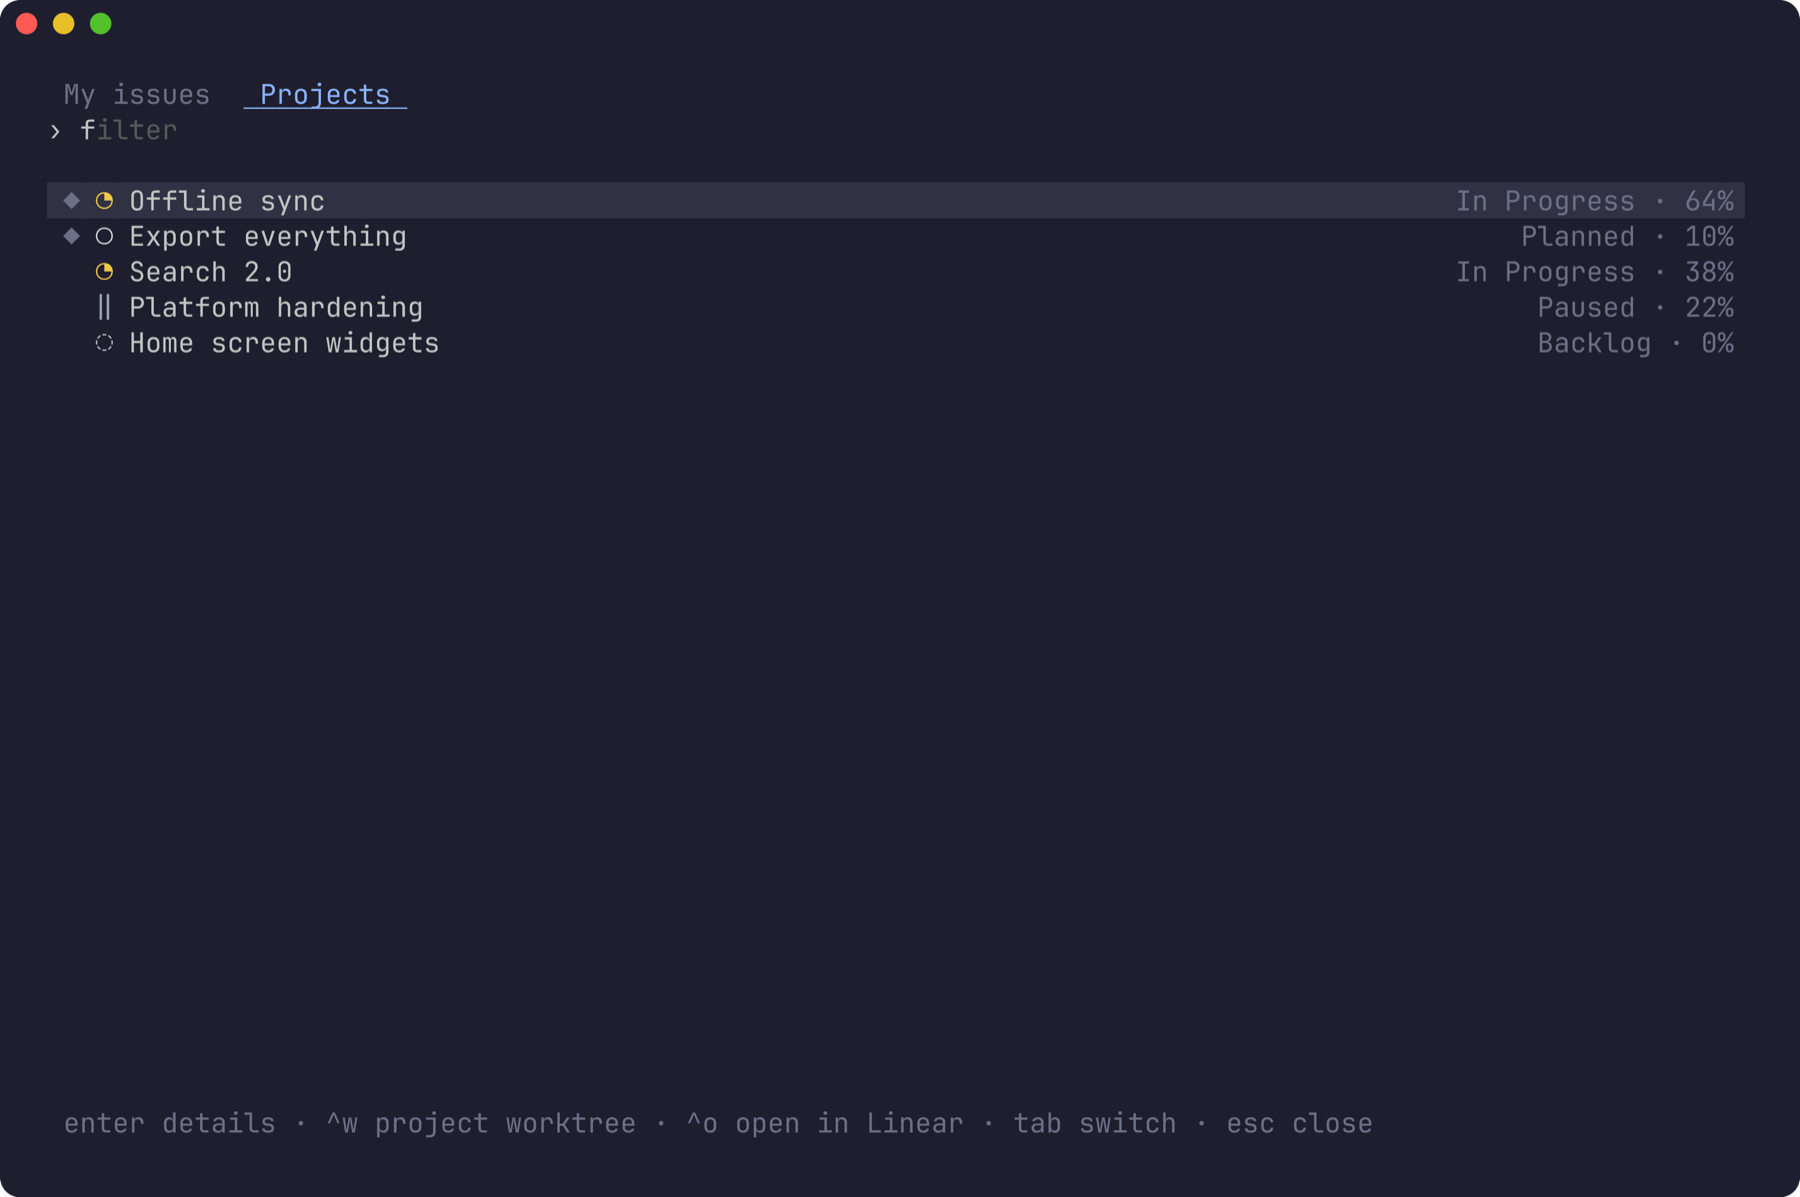
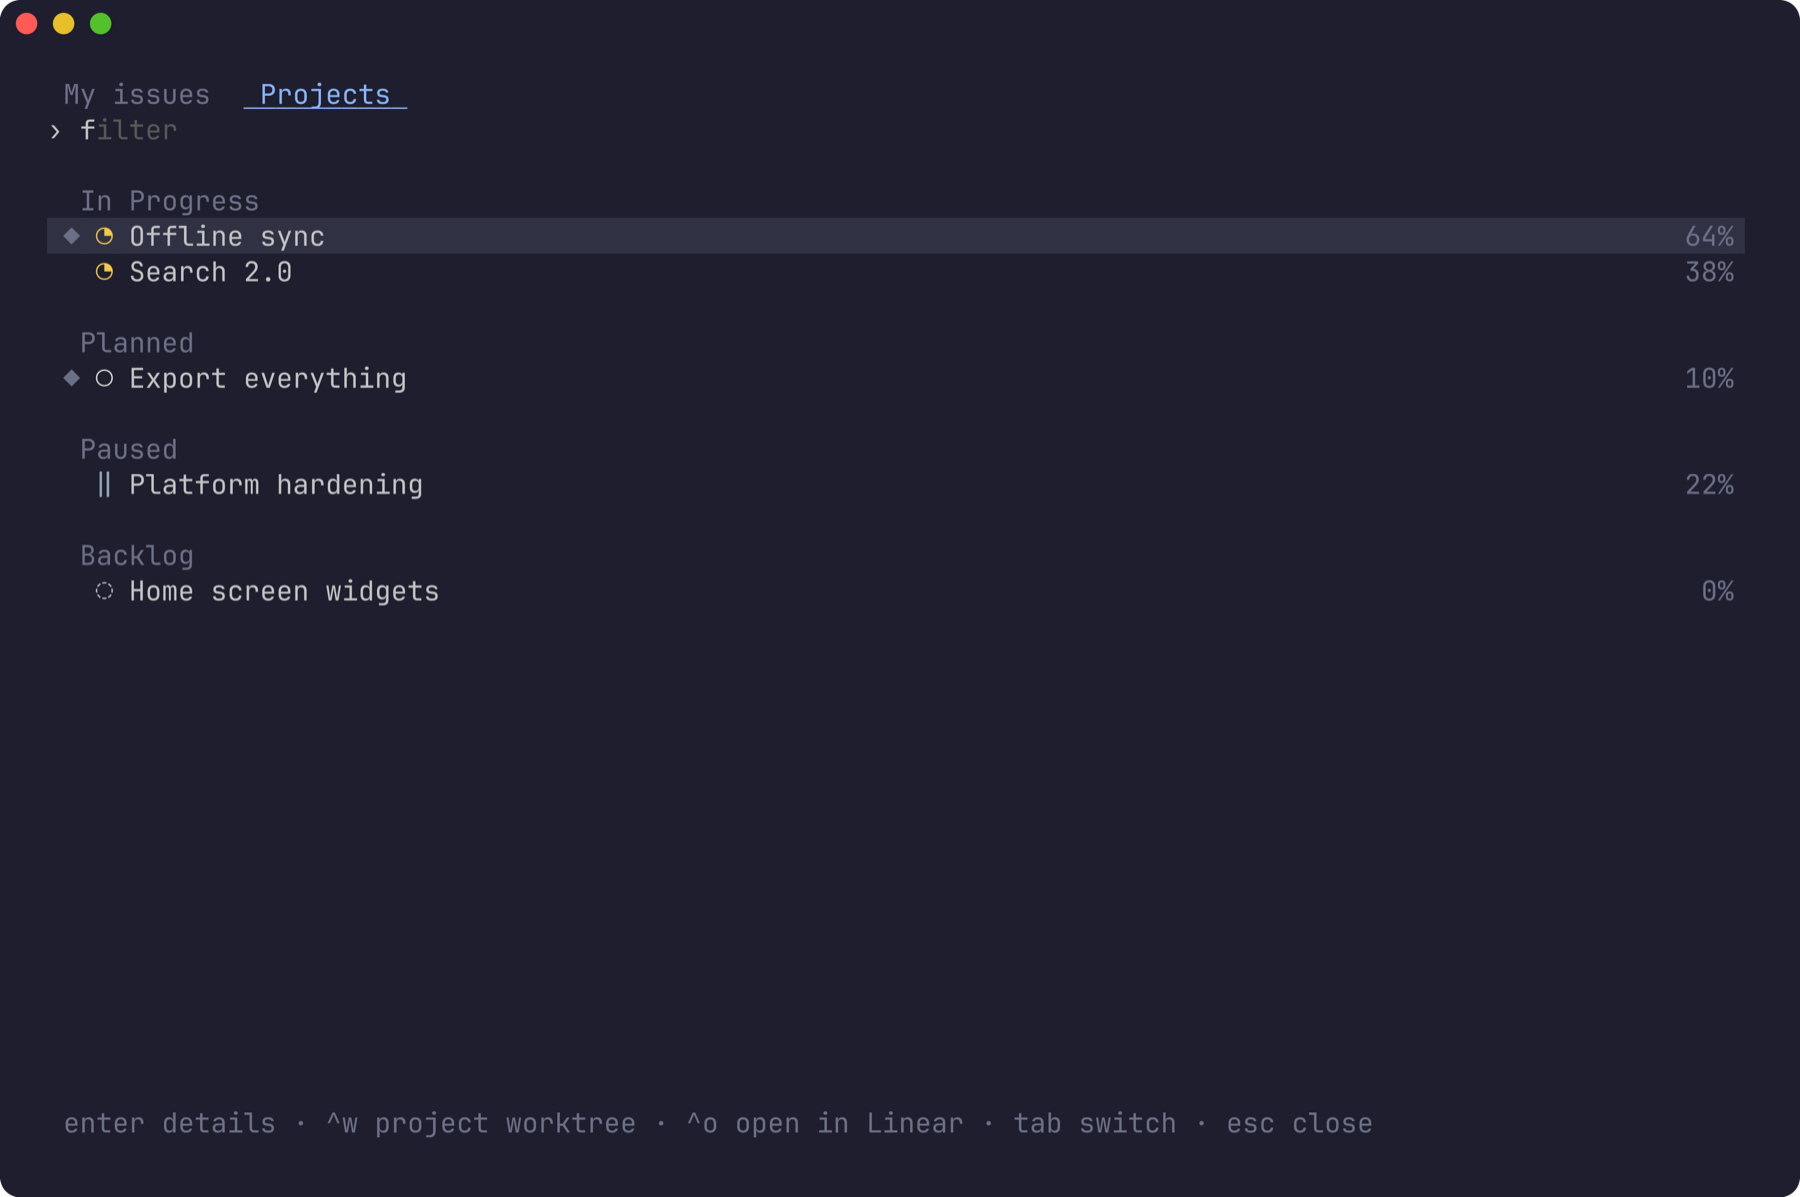
fix(workspaces): review round 3 — ask Linear which token works; group projects by status
Claude-Session: https://claude.ai/code/session_01QqqnGyFA658RDNuiQdbmcA

diff --git a/workspace_test.go b/workspace_test.go
@@ -21,7 +21,8 @@ var (
 )
 
 // fakeStores swaps the keychain for memory, one item per account, and
-// answers whoami from the access token: "acme-…" is Acme, anything else Globex.
+// answers whoami from the access token: "acme-…" is Acme, "dead-…" revoked,
+// anything else Globex.
 func fakeStores(t *testing.T, initial map[string]*tokens) map[string]*tokens {
 	t.Helper()
 	t.Setenv("HERDR_PLUGIN_STATE_DIR", t.TempDir())
@@ -49,8 +50,11 @@ func fakeStores(t *testing.T, initial map[string]*tokens) map[string]*tokens {
 	}
 	removeStore = func(acct string) error { mu.Lock(); defer mu.Unlock(); delete(items, acct); return nil }
 	whoami = func(_ context.Context, _ config, token string) (workspace, error) {
-		if strings.HasPrefix(token, "acme") {
+		switch {
+		case strings.HasPrefix(token, "acme"):
 			return acme, nil
+		case strings.HasPrefix(token, "dead"):
+			return workspace{}, errSignedOut
 		}
 		return globex, nil
 	}
@@ -528,17 +532,34 @@ func TestRepoKeyResolvesSymlinks(t *testing.T) {
 
 // ── review round 2 ────────────────────────────────────────────────────────────
 
-func TestMigrationKeepsTheNewerOldSignIn(t *testing.T) {
+func TestMigrationReplacesTokensLinearRefuses(t *testing.T) {
 	// A move that wrote the copy but couldn't delete the old item; since
 	// then the old item was refreshed, so the copy's refresh token is spent.
-	stale := &tokens{AccessToken: "acme-stale", RefreshToken: "spent", ExpiresAt: time.Now().Add(time.Hour)}
-	fresher := &tokens{AccessToken: "acme-fresh", RefreshToken: "live", ExpiresAt: time.Now().Add(2 * time.Hour)}
-	items := fakeStores(t, map[string]*tokens{legacyAccount: fresher, account(acme.ID): stale})
+	// Its expiry says nothing: it's Linear's answer that counts.
+	spent := &tokens{AccessToken: "dead-a", RefreshToken: "spent", ExpiresAt: time.Now().Add(3 * time.Hour)}
+	items := fakeStores(t, map[string]*tokens{legacyAccount: live(), account(acme.ID): spent})
 	if _, err := loadWorkspaces(context.Background(), config{}); err != nil {
 		t.Fatal(err)
 	}
-	if items[account(acme.ID)].RefreshToken != "live" || items[legacyAccount] != nil {
+	if items[account(acme.ID)].RefreshToken != "r" || items[legacyAccount] != nil {
 		t.Fatalf("stored %v", items)
+	}
+}
+
+func TestMigrationChangesNothingWhenLinearCantSayWhichWorks(t *testing.T) {
+	other := &tokens{AccessToken: "acme-other", RefreshToken: "other", ExpiresAt: time.Now().Add(time.Hour)}
+	items := fakeStores(t, map[string]*tokens{legacyAccount: live(), account(acme.ID): other})
+	whoami = func(_ context.Context, _ config, token string) (workspace, error) {
+		if token == "acme-other" {
+			return workspace{}, errors.New("offline")
+		}
+		return acme, nil
+	}
+	if _, err := loadWorkspaces(context.Background(), config{}); err == nil {
+		t.Fatal("want the error")
+	}
+	if items[legacyAccount] == nil || items[account(acme.ID)].RefreshToken != "other" {
+		t.Fatalf("a pair was dropped on a guess: %v", items)
 	}
 }
 

diff --git a/workspace.go b/workspace.go
@@ -271,7 +271,7 @@ func migrateLegacy(ctx context.Context, cfg config) error {
 		if err != nil {
 			return err
 		}
-		if done, err := moveLegacy(ctx, token, w); done || err != nil {
+		if done, err := moveLegacy(ctx, cfg, token, w); done || err != nil {
 			return err
 		}
 	}
@@ -283,12 +283,13 @@ func migrateLegacy(ctx context.Context, cfg config) error {
 // process refreshed them, or an old version signed in again), it says not
 // done, so they're identified again.
 //
-// When w's account already has tokens (a sign-in since the upgrade, or a
-// move that stopped short of deleting the old item), the more recently
-// issued pair is kept: refreshing rotates the refresh token, so the older
-// pair is the one that may be dead. The other is forgotten, not revoked:
-// they may be the same grant.
-func moveLegacy(ctx context.Context, identified string, w workspace) (bool, error) {
+// When w's account already has other tokens (a sign-in since the upgrade,
+// or a move that stopped short of deleting the old item), which pair is
+// current can't be told from the pairs themselves, so Linear is asked: the
+// account's pair stays if it still works, and the 0.2 pair replaces it if
+// Linear has revoked it. Either way the other is forgotten, not revoked:
+// they may be the same grant. If Linear can't answer, nothing changes.
+func moveLegacy(ctx context.Context, cfg config, identified string, w workspace) (bool, error) {
 	unlock, err := lockTokens(ctx)
 	if err != nil {
 		return false, err
@@ -307,15 +308,46 @@ func moveLegacy(ctx context.Context, identified string, w workspace) (bool, erro
 	if err != nil && !errors.Is(err, errSignedOut) {
 		return false, err
 	}
+	replace := cur == nil
+	if cur != nil && cur.RefreshToken != t.RefreshToken {
+		live, err := worksFor(ctx, cfg, account(w.ID), cur, w)
+		if err != nil {
+			return false, err
+		}
+		replace = !live
+	}
 	if err := updateIndexLocked(func(ix *workspaceIndex) { ix.add(w) }); err != nil {
 		return false, err
 	}
-	if cur == nil || t.ExpiresAt.After(cur.ExpiresAt) {
+	if replace {
 		if err := writeStore(account(w.ID), t); err != nil {
 			return false, err
 		}
 	}
 	return true, removeStore(legacyAccount)
+}
+
+// worksFor asks Linear whether the tokens t, stored under acct, still work
+// for w: refreshed first if due (which stores the new pair), then asked
+// which workspace they're for. false means Linear refused them; an error
+// means it couldn't say. The caller holds the token lock.
+func worksFor(ctx context.Context, cfg config, acct string, t *tokens, w workspace) (bool, error) {
+	if !fresh(t) {
+		nt, err := refreshLocked(ctx, cfg, acct, t)
+		if errors.Is(err, errSignedOut) {
+			return false, nil
+		} else if err != nil {
+			return false, err
+		}
+		t = nt
+	}
+	got, err := whoami(ctx, cfg, t.AccessToken)
+	if errors.Is(err, errSignedOut) {
+		return false, nil
+	} else if err != nil {
+		return false, err
+	}
+	return got.ID == w.ID, nil
 }
 
 // loadWorkspaces is the index after moving any 0.2 sign-in into it. If that

diff --git a/tui.go b/tui.go
@@ -743,21 +743,23 @@ func (m model) runWorktree(t target, is *issue, start bool) (tea.Model, tea.Cmd)
 func (m model) rows() []row {
 	q := m.filter.Value()
 	var rows []row
+	// Both lists come grouped by status: a heading starts each group.
+	last := ""
+	group := func(status string) {
+		if status != last {
+			if len(rows) > 0 {
+				rows = append(rows, row{spacer: true})
+			}
+			rows = append(rows, row{header: status})
+			last = status
+		}
+	}
 	addIssues := func(list []issue) {
-		last := ""
 		for i := range list {
-			is := &list[i]
-			if !is.matches(q) {
-				continue
+			if is := &list[i]; is.matches(q) {
+				group(is.State.Name)
+				rows = append(rows, row{issue: is})
 			}
-			if is.State.Name != last {
-				if len(rows) > 0 {
-					rows = append(rows, row{spacer: true})
-				}
-				rows = append(rows, row{header: is.State.Name})
-				last = is.State.Name
-			}
-			rows = append(rows, row{issue: is})
 		}
 	}
 	switch {
@@ -768,6 +770,7 @@ func (m model) rows() []row {
 	default:
 		for i := range m.projects {
 			if p := &m.projects[i]; p.matches(q) {
+				group(p.Status.Name)
 				rows = append(rows, row{project: p})
 			}
 		}
@@ -1024,7 +1027,7 @@ func (m model) viewRow(r row, selected bool) string {
 		lead = styleDim.Render("◆")
 	}
 	left = fmt.Sprintf(" %s %s ", lead, colored(projectIcon(p.Status.Type), p.Status.Color))
-	right = styleDim.Render(fmt.Sprintf("%s · %d%%", p.Status.Name, int(p.Progress*100+0.5)))
+	right = styleDim.Render(fmt.Sprintf("%d%%", int(p.Progress*100+0.5))) // the status is its heading
 	if m.worktrees[projectTarget(*p).Branch] {
 		right += " " + styleTree.Render("⌥")
 	}

diff --git a/tui_test.go b/tui_test.go
@@ -204,3 +204,32 @@ func stripANSI(s string) string { return stripStyles(s) }
 // screenText is the screen as the user reads it: styling is often applied per
 // word, so assertions on raw View() output can pass or fail for the wrong reason.
 func screenText(m model) string { return stripStyles(m.View()) }
+
+func TestProjectsAreGroupedByStatusYoursFirst(t *testing.T) {
+	st := func(name, typ string) projectStatus { return projectStatus{Name: name, Type: typ} }
+	me := &person{IsMe: true}
+	ps := []project{
+		{Name: "backlog one", Status: st("Backlog", "backlog")},
+		{Name: "theirs", Status: st("In Progress", "started")},
+		{Name: "planned", Status: st("Planned", "planned")},
+		{Name: "mine", Status: st("In Progress", "started"), Lead: me},
+	}
+	sortProjects(ps)
+	m := newModel(context.Background(), config{}, "")
+	m.tab, m.projects = tabProjects, ps
+	var shape []string
+	for _, r := range m.rows() {
+		switch {
+		case r.spacer:
+			shape = append(shape, "_")
+		case r.header != "":
+			shape = append(shape, "#"+r.header)
+		default:
+			shape = append(shape, r.project.Name)
+		}
+	}
+	want := "#In Progress mine theirs _ #Planned planned _ #Backlog backlog one"
+	if got := strings.Join(shape, " "); got != want {
+		t.Fatalf("rows:\n got %s\nwant %s", got, want)
+	}
+}

diff --git a/linear.go b/linear.go
@@ -289,15 +289,20 @@ func (c *linearClient) projects(ctx context.Context) ([]project, error) {
 	return ps, err
 }
 
-// sortProjects puts projects you lead first, then orders by how far along
-// they are in the lifecycle.
+// sortProjects groups projects by status, as the list shows them: by how
+// far along the status is, a workspace's own statuses of one kind by name;
+// within a status, the ones you lead first, then the latest updated.
 func sortProjects(ps []project) {
 	sort.SliceStable(ps, func(i, j int) bool {
-		li, lj := ps[i].Lead != nil && ps[i].Lead.IsMe, ps[j].Lead != nil && ps[j].Lead.IsMe
-		if li != lj {
-			return li
+		a, b := ps[i].Status, ps[j].Status
+		if ra, rb := projectRank(a.Type), projectRank(b.Type); ra != rb {
+			return ra < rb
 		}
-		return projectRank(ps[i].Status.Type) < projectRank(ps[j].Status.Type)
+		if a.Name != b.Name {
+			return a.Name < b.Name
+		}
+		li, lj := ps[i].Lead != nil && ps[i].Lead.IsMe, ps[j].Lead != nil && ps[j].Lead.IsMe
+		return li && !lj
 	})
 }
 

diff --git a/README.md b/README.md
@@ -207,9 +207,9 @@ and the error is shown.
 
 ### Projects
 
-Tab (or →) switches to projects: active projects, the ones you lead first
-(`◆`), each with its status, how far along it is, and `⌥` if it has a
-worktree.
+Tab (or →) switches to projects: active projects, grouped by status like your
+issues, the ones you lead first in each group (`◆`), each with how far along it
+is and `⌥` if it has a worktree.
 
 ![Projects](docs/images/projects.png)
 
@@ -470,7 +470,9 @@ Linear" only opens `https` links on `linear.app`.
 **Your own OAuth app.** To use an OAuth app you control, create one in Linear
 (Settings → API → OAuth applications) with the callback URL
 `http://localhost:47821/callback`, and put its client ID in `config.json` as
-`client_id`. No secret is needed.
+`client_id`. No secret is needed. Make it **public** unless you'll only ever
+sign in to the workspace it was created in: a private app is unknown to every
+other workspace, and signing in there fails with "Could not find OAuth client".
 
 ## Uninstall
 
@@ -507,6 +509,10 @@ reached, or refused, or wouldn't refresh an expired sign-in (which happens if
 you changed `client_id` since signing in). You're still signed in, on purpose;
 try again when you're online. To only forget the tokens on this Mac, run
 `bin/herdr-linear logout --local`, then revoke *herdr* in Linear's settings.
+
+**"Could not find OAuth client" when signing in.** Linear shows this for an
+OAuth app that's private to another workspace. With your own `client_id`,
+make the app public (see [Your own OAuth app](#privacy-and-security)).
 
 **"showing the first 1000".** A list stopped at 1,000 items rather than loading
 without end. Filter to narrow it, or open Linear for the rest.

diff --git a/CHANGELOG.md b/CHANGELOG.md
@@ -11,6 +11,8 @@
   lists them.
 - Tokens are stored per workspace; a sign-in from 0.2 moves over the first
   time the picker opens.
+- Projects are grouped by status, like issues, the ones you lead first in
+  each group.
 
 ## 0.2.1 — 2026-09-24
 
